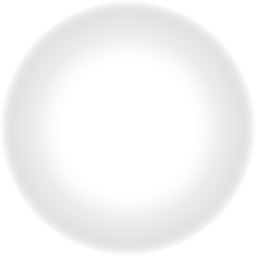
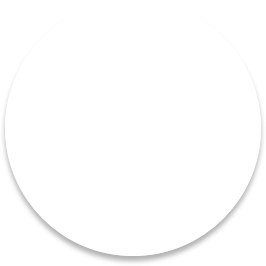
Clean function for animating values

Changed region(s): [[0.0312, 0.0312, 0.9688, 1.0]]

diff --git a/library/frame.js b/library/frame.js
@@ -17,6 +17,8 @@ class Component{
     this.el.style.height = "50px"
     this.el.style.backgroundColor = "#61b1ff"
     this.el.style.borderRadius = "8px"
+    this.el.style.top = "0px"
+    this.el.style.left ="0px"
 
     this.el.style.transition = "all 1s"
     this.el.style.position = "relative"
@@ -28,6 +30,7 @@ class Component{
     this.el.addEventListener("mouseover", this.onOver.bind(this))
     this.el.addEventListener("mousein", this.onOver.bind(this))
     this.el.addEventListener("mouseout", this.onLeave.bind(this))
+    this.el.addEventListener("mousedown", this.onPress.bind(this))
   }
 
   // addState(name, src){
@@ -55,20 +58,32 @@ class Component{
   }
 
   onLeave(){
-    // console.log(this.lastState);
     this.animate(this.lastState)
   }
 
-  animate(state){
-    console.log(state);
-    // console.log(this.states[state])
+  onPress(){
+    if(this.draggable == true){
+      dragElement(this.el)
+    }
+  }
 
+  animate(value){
+    console.log(value);
+    if(Object.keys(this.states).indexOf(value)){
+      this.animateState(value)
+    }
+
+    if(Object.keys(this.states).indexOf(value) === -1){
+      console.log("it's value");
+      for (let el in value) {
+        this.animateValue(el,value[el])
+      }
+    }
+  }
+
+  animateState(state){
     let obj = this.states[state]
     this.onState = state
-
-    // for (let arg in this.el.style) {
-    //   console.log(arg);
-    // }
 
     for (let el in obj) {
       if(el == "src"){
@@ -81,21 +96,17 @@ class Component{
         // this.el.style.height = this.el.style.height.slice(0, -2)*obj[el] + "px"
       }
 
-      if(cssConvert[el] != null){
-        this.el.style.setProperty(cssConvert[el], obj[el])
-      }else{
-        this.el.style.setProperty(el, obj[el])
-      }
-
+      this.animateValue(el, obj[el])
     }
-    // for (var i = 0; i < Object.values(this.states[state]).length; i++) {
-    //   console.log(this.states[state])
-    // }
-    // if(state in this.states && this.states[state].src != null){
-    //
-    // }else{
-    //   // console.log("state: "+ state+" dosen't exist");
-    // }
+  }
+
+  animateValue(type, value){
+
+    if(cssConvert[type] != null){
+      this.el.style.setProperty(cssConvert[type], value)
+    }else{
+      this.el.style.setProperty(type, value)
+    }
   }
 
   cycle() {

diff --git a/sketch.js b/sketch.js
@@ -2,6 +2,7 @@ var rect
 
 window.onload = function setup() {
   rect = new Component()
+  //rect.draggable = true
 
   rect.states["default"]={
     width: "100px",
@@ -10,11 +11,12 @@ window.onload = function setup() {
     borderRadius: "8px",
     backgroundColor: "#61b1ff",
     top: "50vh",
-    left: "50vw"
+    left: "50vw",
+    boxShadow: "0px 0px 0px rgba(0,0,0,1)",
   }
 
   rect.states["hover"]={
-    //boxShadow: "0px 0px 8px"
+    boxShadow: "0px 2px 8px rgba(0,0,0,0.3)",
     backgroundColor: "aqua",
     borderRadius: "100%"
   }
@@ -25,8 +27,8 @@ window.onload = function setup() {
   rect.tap = function() {
     // console.log("tap");
     rect.animate({
-      top: Math.random(0,innerHeight)+"px",
-      width: Math.random(0,innerWidth)+"px"
+      top: randomInt(0,innerHeight)+"px",
+      left: randomInt(0,innerWidth)+"px"
     })
     //rect.cycle("hover","default")
   }
